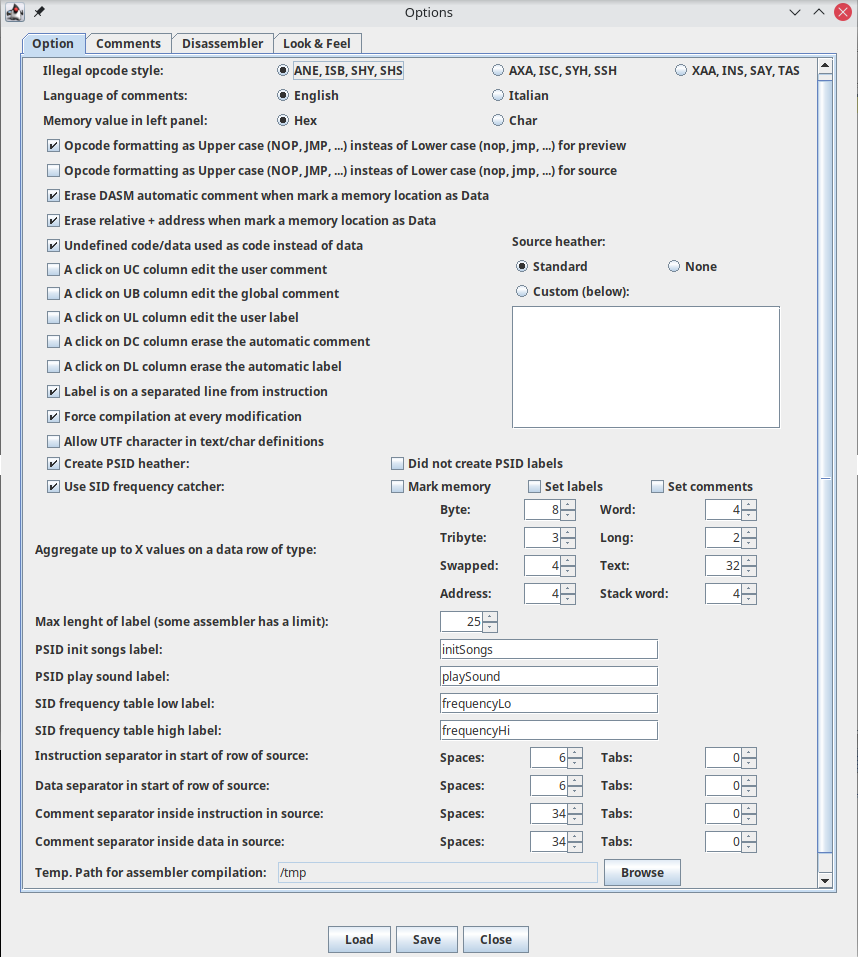
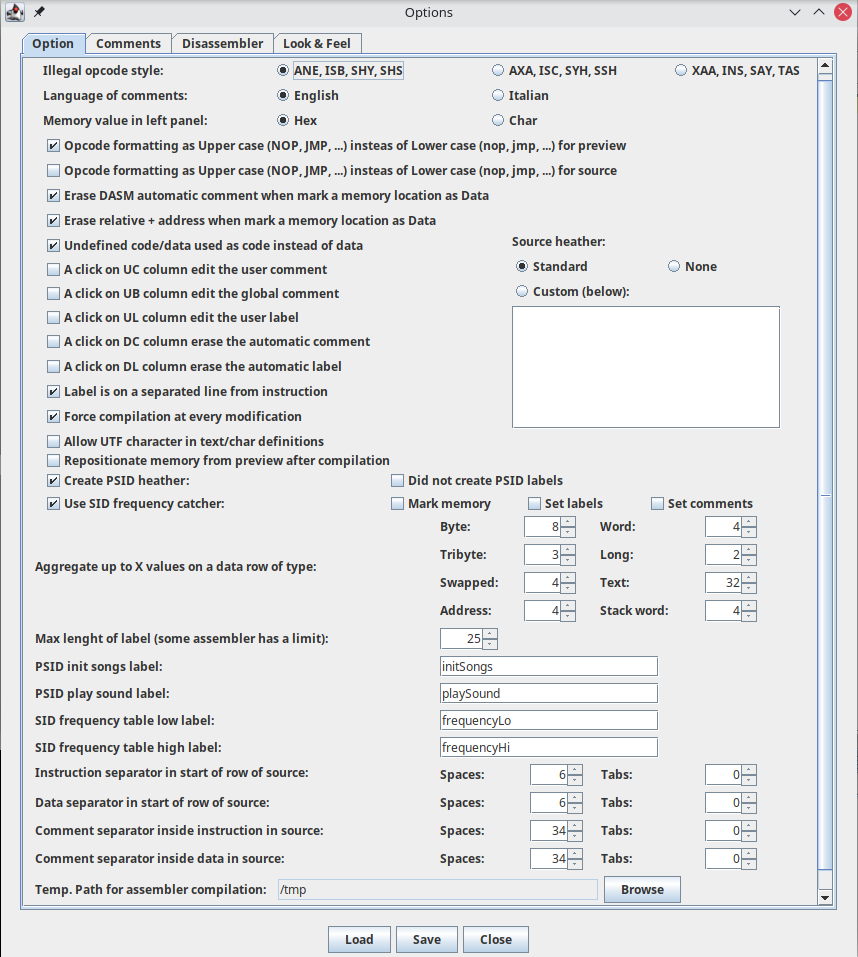
Repositionate in mem option

Changed region(s): [[0.0303, 0.4545, 0.9697, 0.9697], [0.0303, 0.4545, 0.4545, 0.6061], [0.7576, 0.4848, 0.8788, 0.6667]]

diff --git a/src/sw_emulator/swing/help/option.html b/src/sw_emulator/swing/help/option.html
@@ -38,6 +38,7 @@
   <li><b>Label is on separate line from instructio</b>: chnage the way a label is showed inside the code</li>
   <li><b>Force compilation at every modification</b>: at every modification you made the source is generated again. Takes present that in long source code the bottleneck is probably the highlighting of it in preview and source panel rather that the source generation itself</li>   
   <li><b>Allow UTF chars in text/char definitions</b>: UTF char are used if they compile back to right binary code</li>
+  <li><b>Repositionate memory from preview after compilation</b>: current position in preview is used to repositionate in memory if it is on an address after the commpilation
   <li><b>Create PSID heather:</b> create values in source for regenerating the binary as a PSID file and not PRG for tune. 
       <ul>
           <li><b>Did not create PSID labels:</b> not generate the automatic labels for PSID init and play addresses.</li>

diff --git a/src/sw_emulator/swing/JOptionDialog.java b/src/sw_emulator/swing/JOptionDialog.java
@@ -345,6 +345,7 @@ public class JOptionDialog extends javax.swing.JDialog {
         jRadioButtonStandard = new javax.swing.JRadioButton();
         jRadioButtonNone = new javax.swing.JRadioButton();
         jLabelHeather = new javax.swing.JLabel();
+        jCheckBoxRepositionate = new javax.swing.JCheckBox();
         jPanelComment = new javax.swing.JPanel();
         jLabelautocomment = new javax.swing.JLabel();
         jTabbedPaneComm = new javax.swing.JTabbedPane();
@@ -1818,6 +1819,13 @@ public class JOptionDialog extends javax.swing.JDialog {
 
         jLabelHeather.setText("Source heather:");
 
+        jCheckBoxRepositionate.setText("Repositionate memory from preview after compilation");
+        jCheckBoxRepositionate.addActionListener(new java.awt.event.ActionListener() {
+            public void actionPerformed(java.awt.event.ActionEvent evt) {
+                jCheckBoxRepositionateActionPerformed(evt);
+            }
+        });
+
         javax.swing.GroupLayout jPanelPreviewLayout = new javax.swing.GroupLayout(jPanelPreview);
         jPanelPreview.setLayout(jPanelPreviewLayout);
         jPanelPreviewLayout.setHorizontalGroup(
@@ -1974,7 +1982,8 @@ public class JOptionDialog extends javax.swing.JDialog {
                                             .addComponent(jCheckBoxErasePlus, javax.swing.GroupLayout.Alignment.LEADING, javax.swing.GroupLayout.DEFAULT_SIZE, javax.swing.GroupLayout.DEFAULT_SIZE, Short.MAX_VALUE)
                                             .addComponent(jCheckBoxCreatePSID, javax.swing.GroupLayout.Alignment.LEADING, javax.swing.GroupLayout.PREFERRED_SIZE, 232, javax.swing.GroupLayout.PREFERRED_SIZE)
                                             .addComponent(jCheckBoxUndefinedCode, javax.swing.GroupLayout.Alignment.LEADING, javax.swing.GroupLayout.DEFAULT_SIZE, javax.swing.GroupLayout.DEFAULT_SIZE, Short.MAX_VALUE)
-                                            .addComponent(jCheckBoxEraseDComm, javax.swing.GroupLayout.DEFAULT_SIZE, 465, Short.MAX_VALUE))
+                                            .addComponent(jCheckBoxEraseDComm, javax.swing.GroupLayout.DEFAULT_SIZE, 465, Short.MAX_VALUE)
+                                            .addComponent(jCheckBoxRepositionate, javax.swing.GroupLayout.Alignment.LEADING, javax.swing.GroupLayout.DEFAULT_SIZE, javax.swing.GroupLayout.DEFAULT_SIZE, Short.MAX_VALUE))
                                         .addPreferredGap(javax.swing.LayoutStyle.ComponentPlacement.UNRELATED)
                                         .addGroup(jPanelPreviewLayout.createParallelGroup(javax.swing.GroupLayout.Alignment.LEADING, false)
                                             .addComponent(jScrollPaneHeather)
@@ -2042,6 +2051,8 @@ public class JOptionDialog extends javax.swing.JDialog {
                     .addComponent(jScrollPaneHeather))
                 .addPreferredGap(javax.swing.LayoutStyle.ComponentPlacement.RELATED)
                 .addComponent(jCheckBoxAllowUtf)
+                .addPreferredGap(javax.swing.LayoutStyle.ComponentPlacement.RELATED)
+                .addComponent(jCheckBoxRepositionate)
                 .addPreferredGap(javax.swing.LayoutStyle.ComponentPlacement.RELATED)
                 .addGroup(jPanelPreviewLayout.createParallelGroup(javax.swing.GroupLayout.Alignment.BASELINE)
                     .addComponent(jCheckBoxNotUsePSID)
@@ -2135,7 +2146,7 @@ public class JOptionDialog extends javax.swing.JDialog {
                     .addComponent(jLabelTmpPath)
                     .addComponent(jTextFieldTmpPath, javax.swing.GroupLayout.PREFERRED_SIZE, javax.swing.GroupLayout.DEFAULT_SIZE, javax.swing.GroupLayout.PREFERRED_SIZE)
                     .addComponent(jButtonBrowse))
-                .addContainerGap(24, Short.MAX_VALUE))
+                .addContainerGap(52, Short.MAX_VALUE))
         );
 
         jScrollPanePreview.setViewportView(jPanelPreview);
@@ -2310,7 +2321,7 @@ public class JOptionDialog extends javax.swing.JDialog {
                 .addComponent(jCheckBoxC64Cia2)
                 .addPreferredGap(javax.swing.LayoutStyle.ComponentPlacement.RELATED)
                 .addComponent(jCheckBoxC64KernalRom)
-                .addContainerGap(231, Short.MAX_VALUE))
+                .addContainerGap(201, Short.MAX_VALUE))
         );
 
         jTabbedPaneComm.addTab("C64", jPanelC64Comm);
@@ -2415,7 +2426,7 @@ public class JOptionDialog extends javax.swing.JDialog {
                     .addComponent(jCheckBoxC1541Via1, javax.swing.GroupLayout.DEFAULT_SIZE, javax.swing.GroupLayout.DEFAULT_SIZE, Short.MAX_VALUE)
                     .addComponent(jCheckBoxC1541_200Area, javax.swing.GroupLayout.DEFAULT_SIZE, javax.swing.GroupLayout.DEFAULT_SIZE, Short.MAX_VALUE)
                     .addComponent(jCheckBoxC1541StackArea, javax.swing.GroupLayout.DEFAULT_SIZE, javax.swing.GroupLayout.DEFAULT_SIZE, Short.MAX_VALUE)
-                    .addComponent(jCheckBoxC1541ZeroPage, javax.swing.GroupLayout.DEFAULT_SIZE, 410, Short.MAX_VALUE))
+                    .addComponent(jCheckBoxC1541ZeroPage, javax.swing.GroupLayout.DEFAULT_SIZE, 398, Short.MAX_VALUE))
                 .addGap(379, 379, 379))
         );
         jPanelC1541CommLayout.setVerticalGroup(
@@ -2443,7 +2454,7 @@ public class JOptionDialog extends javax.swing.JDialog {
                 .addComponent(jCheckBoxC1541Via2)
                 .addPreferredGap(javax.swing.LayoutStyle.ComponentPlacement.RELATED)
                 .addComponent(jCheckBoxC1541Kernal)
-                .addContainerGap(300, Short.MAX_VALUE))
+                .addContainerGap(276, Short.MAX_VALUE))
         );
 
         jTabbedPaneComm.addTab("C1541", jPanelC1541Comm);
@@ -2630,7 +2641,7 @@ public class JOptionDialog extends javax.swing.JDialog {
                             .addComponent(jCheckBoxC128Cia2, javax.swing.GroupLayout.DEFAULT_SIZE, javax.swing.GroupLayout.DEFAULT_SIZE, Short.MAX_VALUE)
                             .addComponent(jCheckBoxC128DMA, javax.swing.GroupLayout.DEFAULT_SIZE, javax.swing.GroupLayout.DEFAULT_SIZE, Short.MAX_VALUE)
                             .addComponent(jCheckBoxC128KernalRom, javax.swing.GroupLayout.PREFERRED_SIZE, 360, javax.swing.GroupLayout.PREFERRED_SIZE))))
-                .addContainerGap(411, Short.MAX_VALUE))
+                .addContainerGap(399, Short.MAX_VALUE))
         );
         jPanelC128CommLayout.setVerticalGroup(
             jPanelC128CommLayout.createParallelGroup(javax.swing.GroupLayout.Alignment.LEADING)
@@ -2673,7 +2684,7 @@ public class JOptionDialog extends javax.swing.JDialog {
                 .addComponent(jCheckBoxC128DMA)
                 .addPreferredGap(javax.swing.LayoutStyle.ComponentPlacement.RELATED)
                 .addComponent(jCheckBoxC128KernalRom)
-                .addContainerGap(116, Short.MAX_VALUE))
+                .addContainerGap(76, Short.MAX_VALUE))
         );
 
         jTabbedPaneComm.addTab("C128", jPanelC128Comm);
@@ -2857,7 +2868,7 @@ public class JOptionDialog extends javax.swing.JDialog {
                         .addComponent(jCheckBoxVic20Block4, javax.swing.GroupLayout.Alignment.TRAILING, javax.swing.GroupLayout.PREFERRED_SIZE, 384, javax.swing.GroupLayout.PREFERRED_SIZE)
                         .addComponent(jCheckBoxVic20BasicRom, javax.swing.GroupLayout.Alignment.TRAILING, javax.swing.GroupLayout.PREFERRED_SIZE, 384, javax.swing.GroupLayout.PREFERRED_SIZE)
                         .addComponent(jCheckBoxVic20KernalRom, javax.swing.GroupLayout.Alignment.TRAILING, javax.swing.GroupLayout.PREFERRED_SIZE, 384, javax.swing.GroupLayout.PREFERRED_SIZE)))
-                .addContainerGap(405, Short.MAX_VALUE))
+                .addContainerGap(393, Short.MAX_VALUE))
         );
         jPanelVic20CommLayout.setVerticalGroup(
             jPanelVic20CommLayout.createParallelGroup(javax.swing.GroupLayout.Alignment.LEADING)
@@ -2902,7 +2913,7 @@ public class JOptionDialog extends javax.swing.JDialog {
                 .addComponent(jCheckBoxVic20BasicRom, javax.swing.GroupLayout.PREFERRED_SIZE, 23, javax.swing.GroupLayout.PREFERRED_SIZE)
                 .addPreferredGap(javax.swing.LayoutStyle.ComponentPlacement.RELATED)
                 .addComponent(jCheckBoxVic20KernalRom, javax.swing.GroupLayout.PREFERRED_SIZE, 23, javax.swing.GroupLayout.PREFERRED_SIZE)
-                .addContainerGap(93, Short.MAX_VALUE))
+                .addContainerGap(59, Short.MAX_VALUE))
         );
 
         jTabbedPaneComm.addTab("Vic20", jPanelVic20Comm);
@@ -3113,7 +3124,7 @@ public class JOptionDialog extends javax.swing.JDialog {
                                 .addComponent(jCheckBoxPlus4ZeroPage, javax.swing.GroupLayout.DEFAULT_SIZE, 373, Short.MAX_VALUE)
                                 .addComponent(jCheckBoxPlus4StackArea, javax.swing.GroupLayout.DEFAULT_SIZE, javax.swing.GroupLayout.DEFAULT_SIZE, Short.MAX_VALUE))
                             .addComponent(jCheckBoxPlus4_300Area, javax.swing.GroupLayout.PREFERRED_SIZE, 396, javax.swing.GroupLayout.PREFERRED_SIZE))
-                        .addContainerGap(393, Short.MAX_VALUE))
+                        .addContainerGap(381, Short.MAX_VALUE))
                     .addGroup(jPanelPlus4CommLayout.createSequentialGroup()
                         .addGroup(jPanelPlus4CommLayout.createParallelGroup(javax.swing.GroupLayout.Alignment.LEADING)
                             .addComponent(jCheckBoxPlus4Ted, javax.swing.GroupLayout.PREFERRED_SIZE, 382, javax.swing.GroupLayout.PREFERRED_SIZE)
@@ -3197,7 +3208,7 @@ public class JOptionDialog extends javax.swing.JDialog {
                 .addComponent(jLabelautocomment)
                 .addPreferredGap(javax.swing.LayoutStyle.ComponentPlacement.RELATED)
                 .addComponent(jTabbedPaneComm, javax.swing.GroupLayout.PREFERRED_SIZE, 588, javax.swing.GroupLayout.PREFERRED_SIZE)
-                .addContainerGap(javax.swing.GroupLayout.DEFAULT_SIZE, Short.MAX_VALUE))
+                .addContainerGap(279, Short.MAX_VALUE))
         );
 
         jTabbedPaneOption.addTab("Comments", jPanelComment);
@@ -4596,7 +4607,7 @@ public class JOptionDialog extends javax.swing.JDialog {
                     .addComponent(jScrollPaneDasmDcZeroPetasciiText, javax.swing.GroupLayout.PREFERRED_SIZE, javax.swing.GroupLayout.DEFAULT_SIZE, javax.swing.GroupLayout.PREFERRED_SIZE)
                     .addComponent(jRadioButtonDasmDcDotBPetasciiText)
                     .addComponent(jScrollPaneDasmDcDotBPetasciiText, javax.swing.GroupLayout.PREFERRED_SIZE, javax.swing.GroupLayout.DEFAULT_SIZE, javax.swing.GroupLayout.PREFERRED_SIZE))
-                .addContainerGap(javax.swing.GroupLayout.DEFAULT_SIZE, Short.MAX_VALUE))
+                .addContainerGap(22, Short.MAX_VALUE))
         );
 
         jScrollPaneDasm.setViewportView(jPanelDasm);
@@ -5251,7 +5262,7 @@ public class JOptionDialog extends javax.swing.JDialog {
                             .addComponent(jLabelTmpxAddressDeclaration)
                             .addComponent(jRadioButtonTmpxDotAddrAddress)
                             .addComponent(jScrollPaneTmpxDotAddrAddress, javax.swing.GroupLayout.PREFERRED_SIZE, javax.swing.GroupLayout.DEFAULT_SIZE, javax.swing.GroupLayout.PREFERRED_SIZE))
-                        .addPreferredGap(javax.swing.LayoutStyle.ComponentPlacement.RELATED, javax.swing.GroupLayout.DEFAULT_SIZE, Short.MAX_VALUE)
+                        .addPreferredGap(javax.swing.LayoutStyle.ComponentPlacement.RELATED, 13, Short.MAX_VALUE)
                         .addGroup(jPanelTMPxLayout.createParallelGroup(javax.swing.GroupLayout.Alignment.CENTER)
                             .addComponent(jLabelTmpxStackWordDeclaration)
                             .addComponent(jRadioButtonTmpxDotRdaStackWord)
@@ -5313,7 +5324,7 @@ public class JOptionDialog extends javax.swing.JDialog {
                     .addComponent(jLabelTmpxPetasciiTextDeclaration)
                     .addComponent(jRadioButtonTmpxDotPetasciiText)
                     .addComponent(jScrollPaneTmpxDotPetasciiText, javax.swing.GroupLayout.PREFERRED_SIZE, javax.swing.GroupLayout.DEFAULT_SIZE, javax.swing.GroupLayout.PREFERRED_SIZE))
-                .addContainerGap(48, Short.MAX_VALUE))
+                .addContainerGap(55, Short.MAX_VALUE))
         );
 
         jScrollPaneTMPx.setViewportView(jPanelTMPx);
@@ -6202,7 +6213,7 @@ public class JOptionDialog extends javax.swing.JDialog {
                     .addComponent(jScrollPaneCa65DotBytePetasciiText, javax.swing.GroupLayout.PREFERRED_SIZE, javax.swing.GroupLayout.DEFAULT_SIZE, javax.swing.GroupLayout.PREFERRED_SIZE)
                     .addComponent(jRadioButtonCa65DotBytPetasciiText)
                     .addComponent(jScrollPaneCa65DotBytPetasciiText, javax.swing.GroupLayout.PREFERRED_SIZE, javax.swing.GroupLayout.DEFAULT_SIZE, javax.swing.GroupLayout.PREFERRED_SIZE))
-                .addContainerGap(51, Short.MAX_VALUE))
+                .addContainerGap(59, Short.MAX_VALUE))
         );
 
         jScrollPaneCa65.setViewportView(jPanelCa65);
@@ -7243,7 +7254,7 @@ public class JOptionDialog extends javax.swing.JDialog {
                     .addComponent(jScrollPaneAcmeMarkPetPetasciiText, javax.swing.GroupLayout.PREFERRED_SIZE, javax.swing.GroupLayout.DEFAULT_SIZE, javax.swing.GroupLayout.PREFERRED_SIZE)
                     .addComponent(jRadioButtonAcmeMarkPetPetasciiText)
                     .addComponent(jLabelAcmePetasciiTextDeclaration))
-                .addContainerGap(41, Short.MAX_VALUE))
+                .addContainerGap(49, Short.MAX_VALUE))
         );
 
         jScrollPaneAcme.setViewportView(jPanelAcme);
@@ -8099,7 +8110,7 @@ public class JOptionDialog extends javax.swing.JDialog {
                     .addComponent(jLabelKickPetasciiTextDeclaration)
                     .addComponent(jRadioButtonKickDotTextPetasciiText)
                     .addComponent(jScrollPaneKickDotTextPetasciiText, javax.swing.GroupLayout.PREFERRED_SIZE, javax.swing.GroupLayout.DEFAULT_SIZE, javax.swing.GroupLayout.PREFERRED_SIZE))
-                .addContainerGap(17, Short.MAX_VALUE))
+                .addContainerGap(24, Short.MAX_VALUE))
         );
 
         jScrollPaneKickAssembler.setViewportView(jPanelKickAssembler);
@@ -8992,7 +9003,7 @@ public class JOptionDialog extends javax.swing.JDialog {
                     .addComponent(jLabelTass65PetasciiTextDeclaration, javax.swing.GroupLayout.PREFERRED_SIZE, 15, javax.swing.GroupLayout.PREFERRED_SIZE)
                     .addComponent(jRadioButtonTass64DotTextPetasciiText)
                     .addComponent(jScrollPaneTass64DotTextPetasciiText, javax.swing.GroupLayout.PREFERRED_SIZE, javax.swing.GroupLayout.DEFAULT_SIZE, javax.swing.GroupLayout.PREFERRED_SIZE))
-                .addContainerGap(47, Short.MAX_VALUE))
+                .addContainerGap(55, Short.MAX_VALUE))
         );
 
         jScrollPaneTass64.setViewportView(jPanelTass64);
@@ -9021,7 +9032,7 @@ public class JOptionDialog extends javax.swing.JDialog {
                     .addComponent(jLabelAutoComment)
                     .addComponent(jComboBoxAssembler, javax.swing.GroupLayout.PREFERRED_SIZE, javax.swing.GroupLayout.DEFAULT_SIZE, javax.swing.GroupLayout.PREFERRED_SIZE))
                 .addPreferredGap(javax.swing.LayoutStyle.ComponentPlacement.RELATED)
-                .addComponent(jTabbedPaneAssembler, javax.swing.GroupLayout.DEFAULT_SIZE, 773, Short.MAX_VALUE))
+                .addComponent(jTabbedPaneAssembler, javax.swing.GroupLayout.DEFAULT_SIZE, 858, Short.MAX_VALUE))
         );
 
         jTabbedPaneOption.addTab("Disassembler", jPanelDisassembler);
@@ -9212,7 +9223,7 @@ public class JOptionDialog extends javax.swing.JDialog {
                 .addGroup(jPanelLookLayout.createParallelGroup(javax.swing.GroupLayout.Alignment.LEADING, false)
                     .addComponent(jScrollPaneList, javax.swing.GroupLayout.PREFERRED_SIZE, 0, Short.MAX_VALUE)
                     .addComponent(jLabelFlatLaf, javax.swing.GroupLayout.DEFAULT_SIZE, 221, Short.MAX_VALUE))
-                .addContainerGap(259, Short.MAX_VALUE))
+                .addContainerGap(247, Short.MAX_VALUE))
         );
         jPanelLookLayout.setVerticalGroup(
             jPanelLookLayout.createParallelGroup(javax.swing.GroupLayout.Alignment.LEADING)
@@ -9264,7 +9275,7 @@ public class JOptionDialog extends javax.swing.JDialog {
                         .addGroup(jPanelLookLayout.createParallelGroup(javax.swing.GroupLayout.Alignment.LEADING)
                             .addComponent(jLabelArrow, javax.swing.GroupLayout.PREFERRED_SIZE, 23, javax.swing.GroupLayout.PREFERRED_SIZE)
                             .addComponent(jRadioButtonLookSynth))
-                        .addContainerGap(587, Short.MAX_VALUE))))
+                        .addContainerGap(656, Short.MAX_VALUE))))
         );
 
         jTabbedPaneOption.addTab("Look & Feel", jPanelLook);
@@ -11056,6 +11067,10 @@ public class JOptionDialog extends javax.swing.JDialog {
       option.heather=Option.HEATHER_CUSTOM;
     }//GEN-LAST:event_jRadioButtonCustomItemStateChanged
 
+    private void jCheckBoxRepositionateActionPerformed(java.awt.event.ActionEvent evt) {//GEN-FIRST:event_jCheckBoxRepositionateActionPerformed
+      option.repositionate=jCheckBoxRepositionate.isSelected();
+    }//GEN-LAST:event_jCheckBoxRepositionateActionPerformed
+
     /**
      * @param args the command line arguments
      */
@@ -11321,6 +11336,7 @@ public class JOptionDialog extends javax.swing.JDialog {
     private javax.swing.JCheckBox jCheckBoxPlus4_6529B_1;
     private javax.swing.JCheckBox jCheckBoxPlus4_6529B_2;
     private javax.swing.JCheckBox jCheckBoxPlus4_700Area;
+    private javax.swing.JCheckBox jCheckBoxRepositionate;
     private javax.swing.JCheckBox jCheckBoxSetComment;
     private javax.swing.JCheckBox jCheckBoxSetLabels;
     private javax.swing.JCheckBox jCheckBoxUbEdit;
@@ -12380,6 +12396,7 @@ public class JOptionDialog extends javax.swing.JDialog {
       jCheckBoxNotUsePSID.setSelected(option.notMarkPSID);
       jCheckBoxCreatePSID.setSelected(option.createPSID);
       jCheckBoxNotUsePSID.setEnabled(option.createPSID);
+      jCheckBoxRepositionate.setSelected(option.repositionate);
       
       switch (option.heather) {
           case Option.HEATHER_STANDARD:

diff --git a/src/sw_emulator/swing/JDisassemblerFrame.java b/src/sw_emulator/swing/JDisassemblerFrame.java
@@ -2785,22 +2785,7 @@ public class JDisassemblerFrame extends javax.swing.JFrame implements userAction
     }//GEN-LAST:event_jMenuItemAboutActionPerformed
 
     private void rSyntaxTextAreaDisMouseClicked(java.awt.event.MouseEvent evt) {//GEN-FIRST:event_rSyntaxTextAreaDisMouseClicked
-      try {
-        // get starting position of clicked point  
-        int pos=Utilities.getRowStart(rSyntaxTextAreaDis, rSyntaxTextAreaDis.getCaretPosition());
-       
-        int addr=searchAddress(rSyntaxTextAreaDis.getDocument().getText(pos,option.maxLabelLength));
-        
-        if (addr==-1) return;
-                
-        //scroll to that point
-        jTableMemory.scrollRectToVisible(jTableMemory.getCellRect(addr,0, true)); 
-        
-        // select this row
-        jTableMemory.setRowSelectionInterval(addr, addr);
-      } catch (Exception e) {
-          System.err.println(e);
-      }
+      gotoMem();
     }//GEN-LAST:event_rSyntaxTextAreaDisMouseClicked
 
     private void jMenuItemFindDisActionPerformed(java.awt.event.ActionEvent evt) {//GEN-FIRST:event_jMenuItemFindDisActionPerformed
@@ -4690,7 +4675,10 @@ public class JDisassemblerFrame extends javax.swing.JFrame implements userAction
         System.err.println(ex);
     }       
     
-    memoryTableCellRenderer.setDisassembly(disassembly);      
+    memoryTableCellRenderer.setDisassembly(disassembly);
+    
+    // repositionate in memory if option is on
+    if (option.repositionate) gotoMem();
   }
 
   /**
@@ -5825,5 +5813,27 @@ public class JDisassemblerFrame extends javax.swing.JFrame implements userAction
     for (MemoryDasm mem: project.memory) {
       mem.dasmLocation=null;  
     }  
+  }
+  
+  /**
+   * Got memory from preview
+   */
+  private void gotoMem() {
+    try {  
+      // get starting position of clicked point  
+      int pos=Utilities.getRowStart(rSyntaxTextAreaDis, rSyntaxTextAreaDis.getCaretPosition());
+       
+      int addr=searchAddress(rSyntaxTextAreaDis.getDocument().getText(pos,option.maxLabelLength));
+       
+      if (addr==-1) return;
+                
+      //scroll to that point
+      jTableMemory.scrollRectToVisible(jTableMemory.getCellRect(addr,0, true)); 
+        
+      // select this row
+      jTableMemory.setRowSelectionInterval(addr, addr);  
+    } catch (Exception e) {
+        System.err.println(e);
+      }  
   }
 }

diff --git a/src/sw_emulator/swing/main/FileManager.java b/src/sw_emulator/swing/main/FileManager.java
@@ -360,6 +360,7 @@ public class FileManager {
       option.notMarkPSID=in.readBoolean();
       option.heather=in.readInt();
       option.custom=in.readUTF();
+      option.repositionate=in.readBoolean();
               
     } catch (FileNotFoundException e) {
          return true; 
@@ -672,6 +673,7 @@ public class FileManager {
       out.writeBoolean(option.notMarkPSID);
       out.writeInt(option.heather);
       out.writeUTF(option.custom);
+      out.writeBoolean(option.repositionate);
       
       out.flush();
       out.close();

diff --git a/src/sw_emulator/swing/main/Option.java b/src/sw_emulator/swing/main/Option.java
@@ -379,6 +379,9 @@ public class Option {
   /** Custom heather */
   public String custom;
   
+  /** Repostionate the memory position after compilation */
+  public boolean repositionate=false;
+  
   
   // comments C64
   
